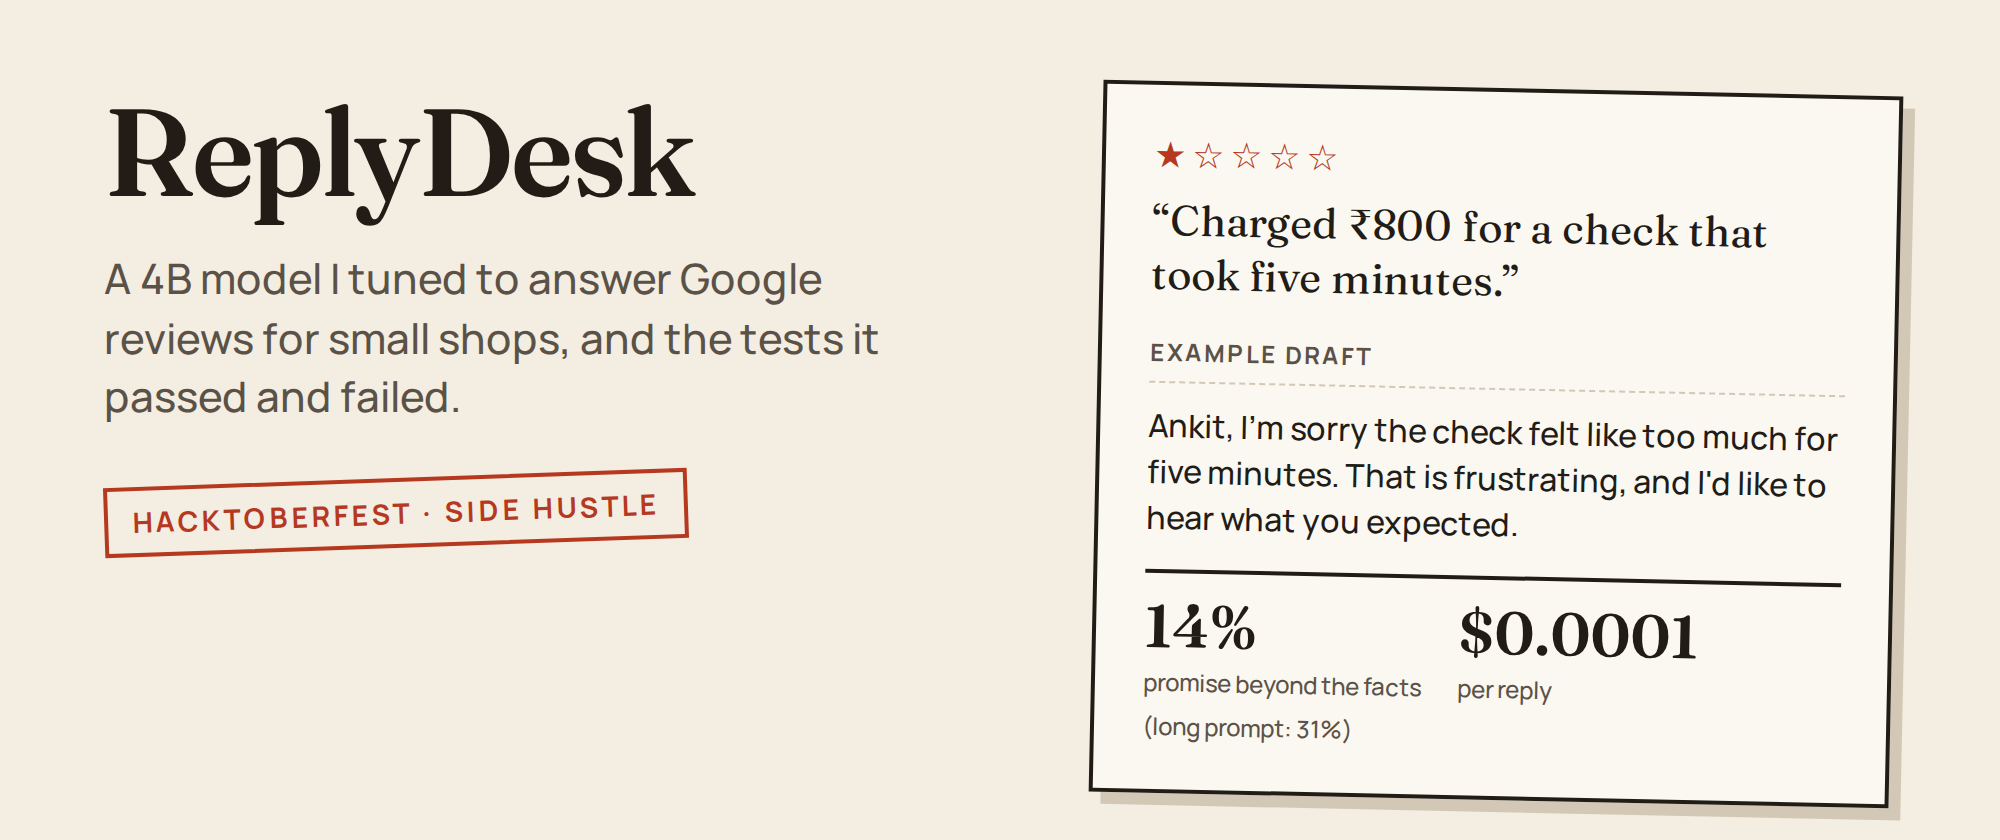
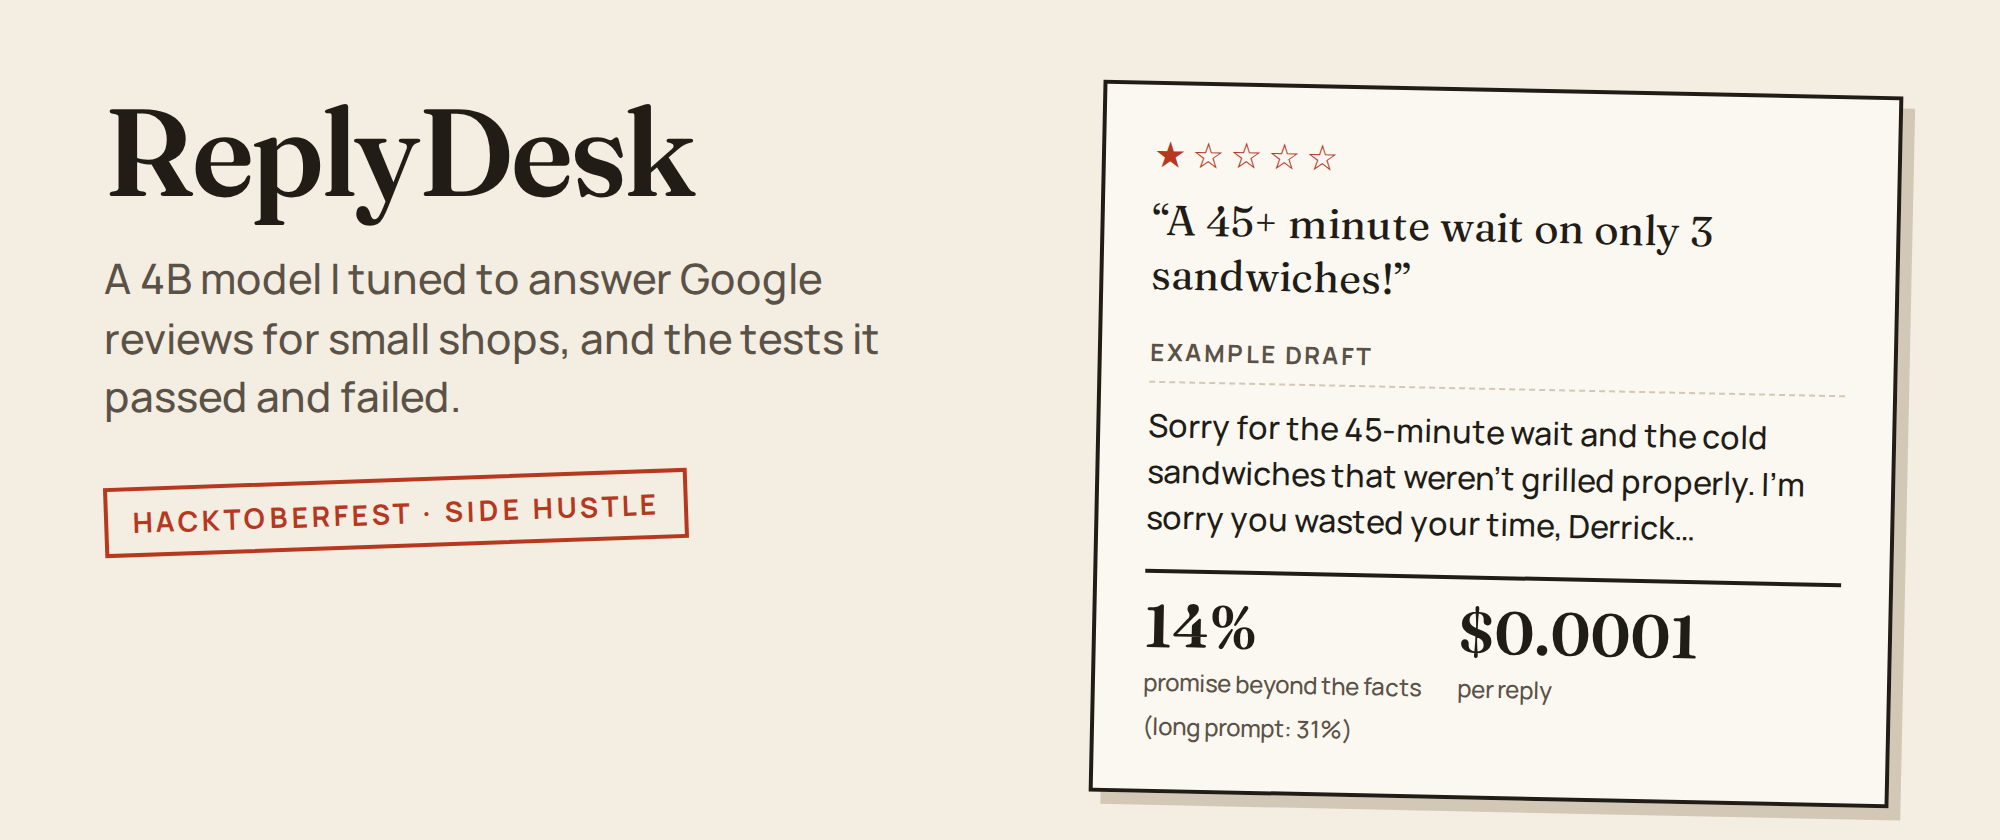
Make the demo data all cafe, redo the inbox screenshot and cover

Changed region(s): [[0.558, 0.4952, 0.93, 0.65], [0.558, 0.2476, 0.899, 0.3714]]

diff --git a/scripts/seed.ts b/scripts/seed.ts
@@ -7,23 +7,24 @@ if (!url) throw new Error("DATABASE_URL is not set");
 const sql = postgres(url, { ssl: "require", max: 1 });
 
 const H = 3600_000;
+// Real reviews from the public Google Local Reviews dataset (other businesses), shortened to first name and initial.
 const REVIEWS = [
-  { author: "Rohan M.", rating: 2, text: "Car was ready a day late and nobody called to tell me. Work itself was fine, brakes feel good now, but I had to take leave twice.", age: 2 * H },
-  { author: "Ankit P.", rating: 1, text: "Charged ₹800 for a check that took five minutes.", age: 26 * H },
-  { author: "Meera K.", rating: 4, text: "Good service, the waiting area could be cleaner.", age: 28 * H },
-  { author: "Priya S.", rating: 5, text: "Ramesh bhai fixed the AC in under an hour. Honest price, showed me the old part.", age: 72 * H, reply: "Thank you Priya, I'll tell Ramesh. See you next time. — Ganesh" },
-  { author: "David L.", rating: 5, text: "Got me back on the road on a Sunday. Lifesavers.", age: 96 * H, reply: "Glad we could help, David. Drive safe. — Ganesh" },
+  { author: "Derrick R.", rating: 1, text: "A 45+ minute wait on only 3 sandwiches! Also 2 of the sandwiches were supposed to be grilled to perfection and not one of them were grilled or hot! Wasted so much time!", age: 2 * H },
+  { author: "Vanessa R.", rating: 1, text: "My husband was in line for 30 minutes and they didn't take his order even the people that went in after him got their stuff made. Favoritism I say.", age: 26 * H },
+  { author: "Pamela D.", rating: 2, text: "The lady behind the counter was very rude. First and last visit.", age: 30 * H },
+  { author: "Justin H.", rating: 4, text: "Good pizza, the cheesy bread sticks were also good, friendly staff, overall chill atmosphere, would return in the near future for another bite to eat.", age: 72 * H },
+  { author: "Rich B.", rating: 5, text: "Beautiful, small coffee shop with a great staff and excellent coffee and treats. Very comfy setting with vegan options as well.", age: 96 * H },
 ];
 const FACTS = [
-  "Same-day WhatsApp update when a job is delayed",
-  "Ask for Ramesh at the front desk",
-  "Free re-check within 7 days",
+  "Open from 12:30 pm to 1 am",
+  "Mostly serves college students from the campus next door",
+  "Veg and non-veg momos, pizzas, grilled chicken and pastries",
 ];
 
 let [shop] = await sql`select id from shops order by created_at limit 1`;
 if (!shop) {
   [shop] = await sql`insert into shops (name, category, city, owner_name)
-    values ('Shree Ganesh Auto Garage', 'auto repair', 'Kothrud, Pune', 'Ganesh') returning id`;
+    values ('HOP-In Café', 'cafe/restaurant', 'Naya Raipur', 'Pratik') returning id`;
   await sql`insert into shop_facts ${sql(FACTS.map((text, position) => ({ shop_id: shop.id, text, position })))}`;
   console.log("created demo shop");
 } else {
